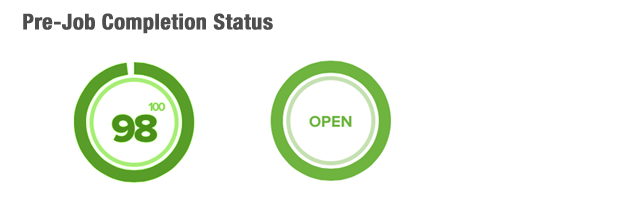
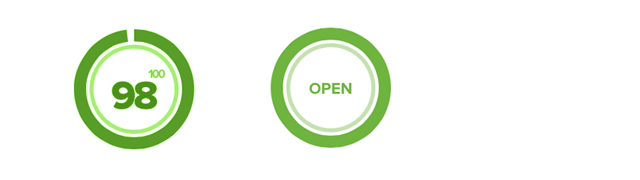
Adding new overview screen. Testing new fonts

Changed region(s): [[0.0312, 0.0556, 0.4375, 0.8611], [0.4062, 0.1389, 0.625, 0.8611]]

diff --git a/app/assets/stylesheets/custom.css.scss b/app/assets/stylesheets/custom.css.scss
@@ -68,10 +68,12 @@ ul.ui-autocomplete {
 html {
   overflow-y: scroll;
 
+
 }
 
 body {
   padding-top: 80px;
+
 }
 
 .email-body {
@@ -81,6 +83,8 @@ body {
 
 .body {
   background: #FFFFFF;
+  font-family: "gothammediumregular" !important;
+
 }
 
 section {
@@ -92,7 +96,7 @@ textarea {
 }
 
 header {
-  min-width: 950px !important;
+  min-width: 1050px !important;
 }
 
 .placeholder {
@@ -167,7 +171,7 @@ p {
 .navbar {
   @media only screen and (max-device-width: 480px) {
     position: absolute !important;
-    min-width: 980px !important;
+    min-width: 1050px !important;
   }
 }
 
@@ -208,7 +212,7 @@ p {
 .admin_tab {
   margin: 0px;
   padding: 0px;
-  margin-left: 40px;
+  margin-left: 10px;
   height: 58px;
   line-height: 58px;
   display: inline-block;
@@ -218,7 +222,7 @@ p {
     color: white;
   }
 
-  @media screen and (max-width: 1200px) {
+  @media screen and (max-width: 1250px) {
     margin-left: 10px;
   }
 }
@@ -227,7 +231,7 @@ p {
   display: inline-block;
   height: 58px;
   line-height: 58px;
-  margin-right: 10px;
+  margin-right: 0px;
   padding-left: 0px;
   padding-right: 0px;
   text-transform: none;
@@ -280,7 +284,7 @@ p {
     color: white;
   }
 
-  @media screen and (max-width: 1200px) {
+  @media screen and (max-width: 1250px) {
     margin-left: 10px;
   }
 }
@@ -412,7 +416,7 @@ p {
 .global-search {
   width: 200px !important;
 
-  @media screen and (max-width: 1200px) {
+  @media screen and (max-width: 1250px) {
     width: 100px !important;
   }
 }

diff --git a/app/assets/stylesheets/jobs.css.scss b/app/assets/stylesheets/jobs.css.scss
@@ -433,3 +433,48 @@
   height: 50px !important;
   margin-bottom: 10px;
 }
+
+
+.job-status {
+
+  border-width: 0px 0px 1px 0px;
+  border-style: dashed;
+  border-bottom-color: #63cbed;
+
+  h2 {
+    font-size: 17px !important;
+  }
+
+  .job-well-field-title {
+    font-size: 9px !important;
+  }
+
+  .progress {
+    margin-top: 5px;
+    width: 400px;
+    height: 30px;
+
+    .bar {
+      height: 30px;
+    }
+  }
+}
+
+.job-status-name {
+  display: inline-block;
+  width: 300px;
+}
+
+.job-status-guide {
+  width: 400px;
+  margin-right: 15px;
+  margin-top: -20px;
+
+  border-width: 0px 0px 1px 0px;
+  border-style: dashed;
+  border-bottom-color: #0058a8;
+}
+
+.job-status-avatar {
+  margin-bottom: -10px;
+}

diff --git a/config/routes.rb b/config/routes.rb
@@ -6,6 +6,7 @@ ElephantWebApp::Application.routes.draw do
     match '/help', to: 'static_pages#help'
     match '/about', to: 'static_pages#about'
     match '/sales', to: 'static_pages#sales'
+    match '/overview', to: 'static_pages#overview'
 
     resources :users, only: [:index, :show, :new, :create, :destroy, :edit, :update]
 

diff --git a/app/controllers/static_pages_controller.rb b/app/controllers/static_pages_controller.rb
@@ -30,4 +30,9 @@ class StaticPagesController < ApplicationController
 
     def sales
     end
+
+    def overview
+        set_tab :overview
+
+    end
 end
